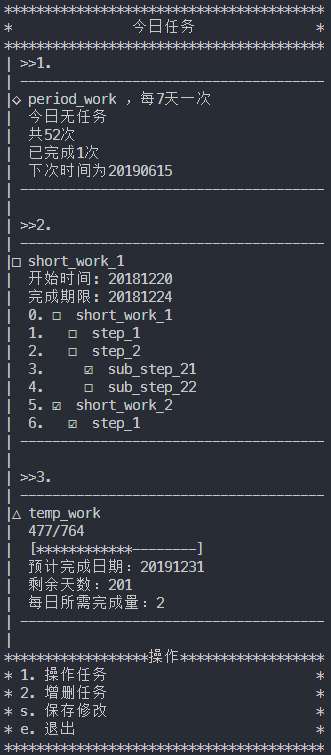
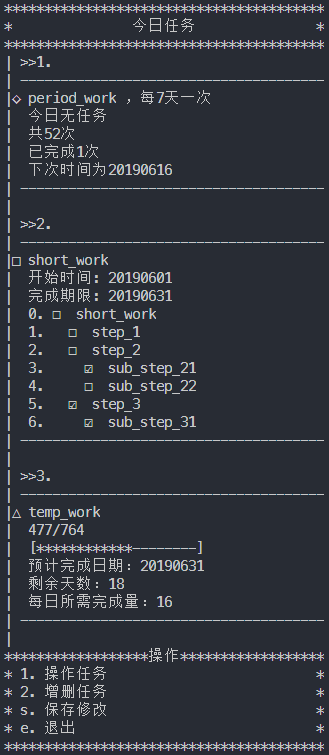
modify template

diff --git a/README.md b/README.md
@@ -36,10 +36,10 @@ g++ -std=c++11 *.cpp -o DailyTask.out
 ```
 period              //period型任务
 7 52 1              //循环周期，循环次数，已完成循环数
-20181227            //当前循环截止日期
+20190616            //当前循环截止日期
 n                   //是否处于激活状态
 0 period_work n     //任务层级（无用），任务名称，是否已完成（无用）
-20181220 任务已完成  //已完成循环记录
+20180609 任务已完成  //已完成循环记录
 ```
 
 ### 3.2 `short`型任务
@@ -49,14 +49,14 @@ n                   //是否处于激活状态
 
 ```
 short               //short型任务
-20181220 20181224 7 //开始时间，完成期限，任务数量
+20190601 20190631 7 //开始时间，完成期限，任务数量
 0 short_work_1 n    //任务层级，任务名称，是否已完成(下同)
 1 step_1 n
 1 step_2 n
 2 sub_step_21 y
 2 sub_step_22 n
-0 short_work_2 y
-1 step_1 y
+1 step_3 y
+2 sub_step_31 y
 ```
 
 ### 3.3 `temp`型任务
@@ -66,10 +66,9 @@ short               //short型任务
 ```
 temp                                     //temp型任务
 477 764                                  //已完成任务量，总任务量
-20190131                                 //预计完成时间
-0 temp_work n                            //任务层级，任务名称，是否已完成
-20181209 完成量：	7	447-454  //已完成任务记录
-20181210 完成量：	5	454-459
-20181212 完成量：	11	459-470
-20181221 完成量：	7	470-477
+20190631                                 //预计完成时间
+20190601 完成量：	7	447-454  //已完成任务记录
+20190603 完成量：	5	454-459
+20190605 完成量：	11	459-470
+20190607 完成量：	7	470-477
 ```
